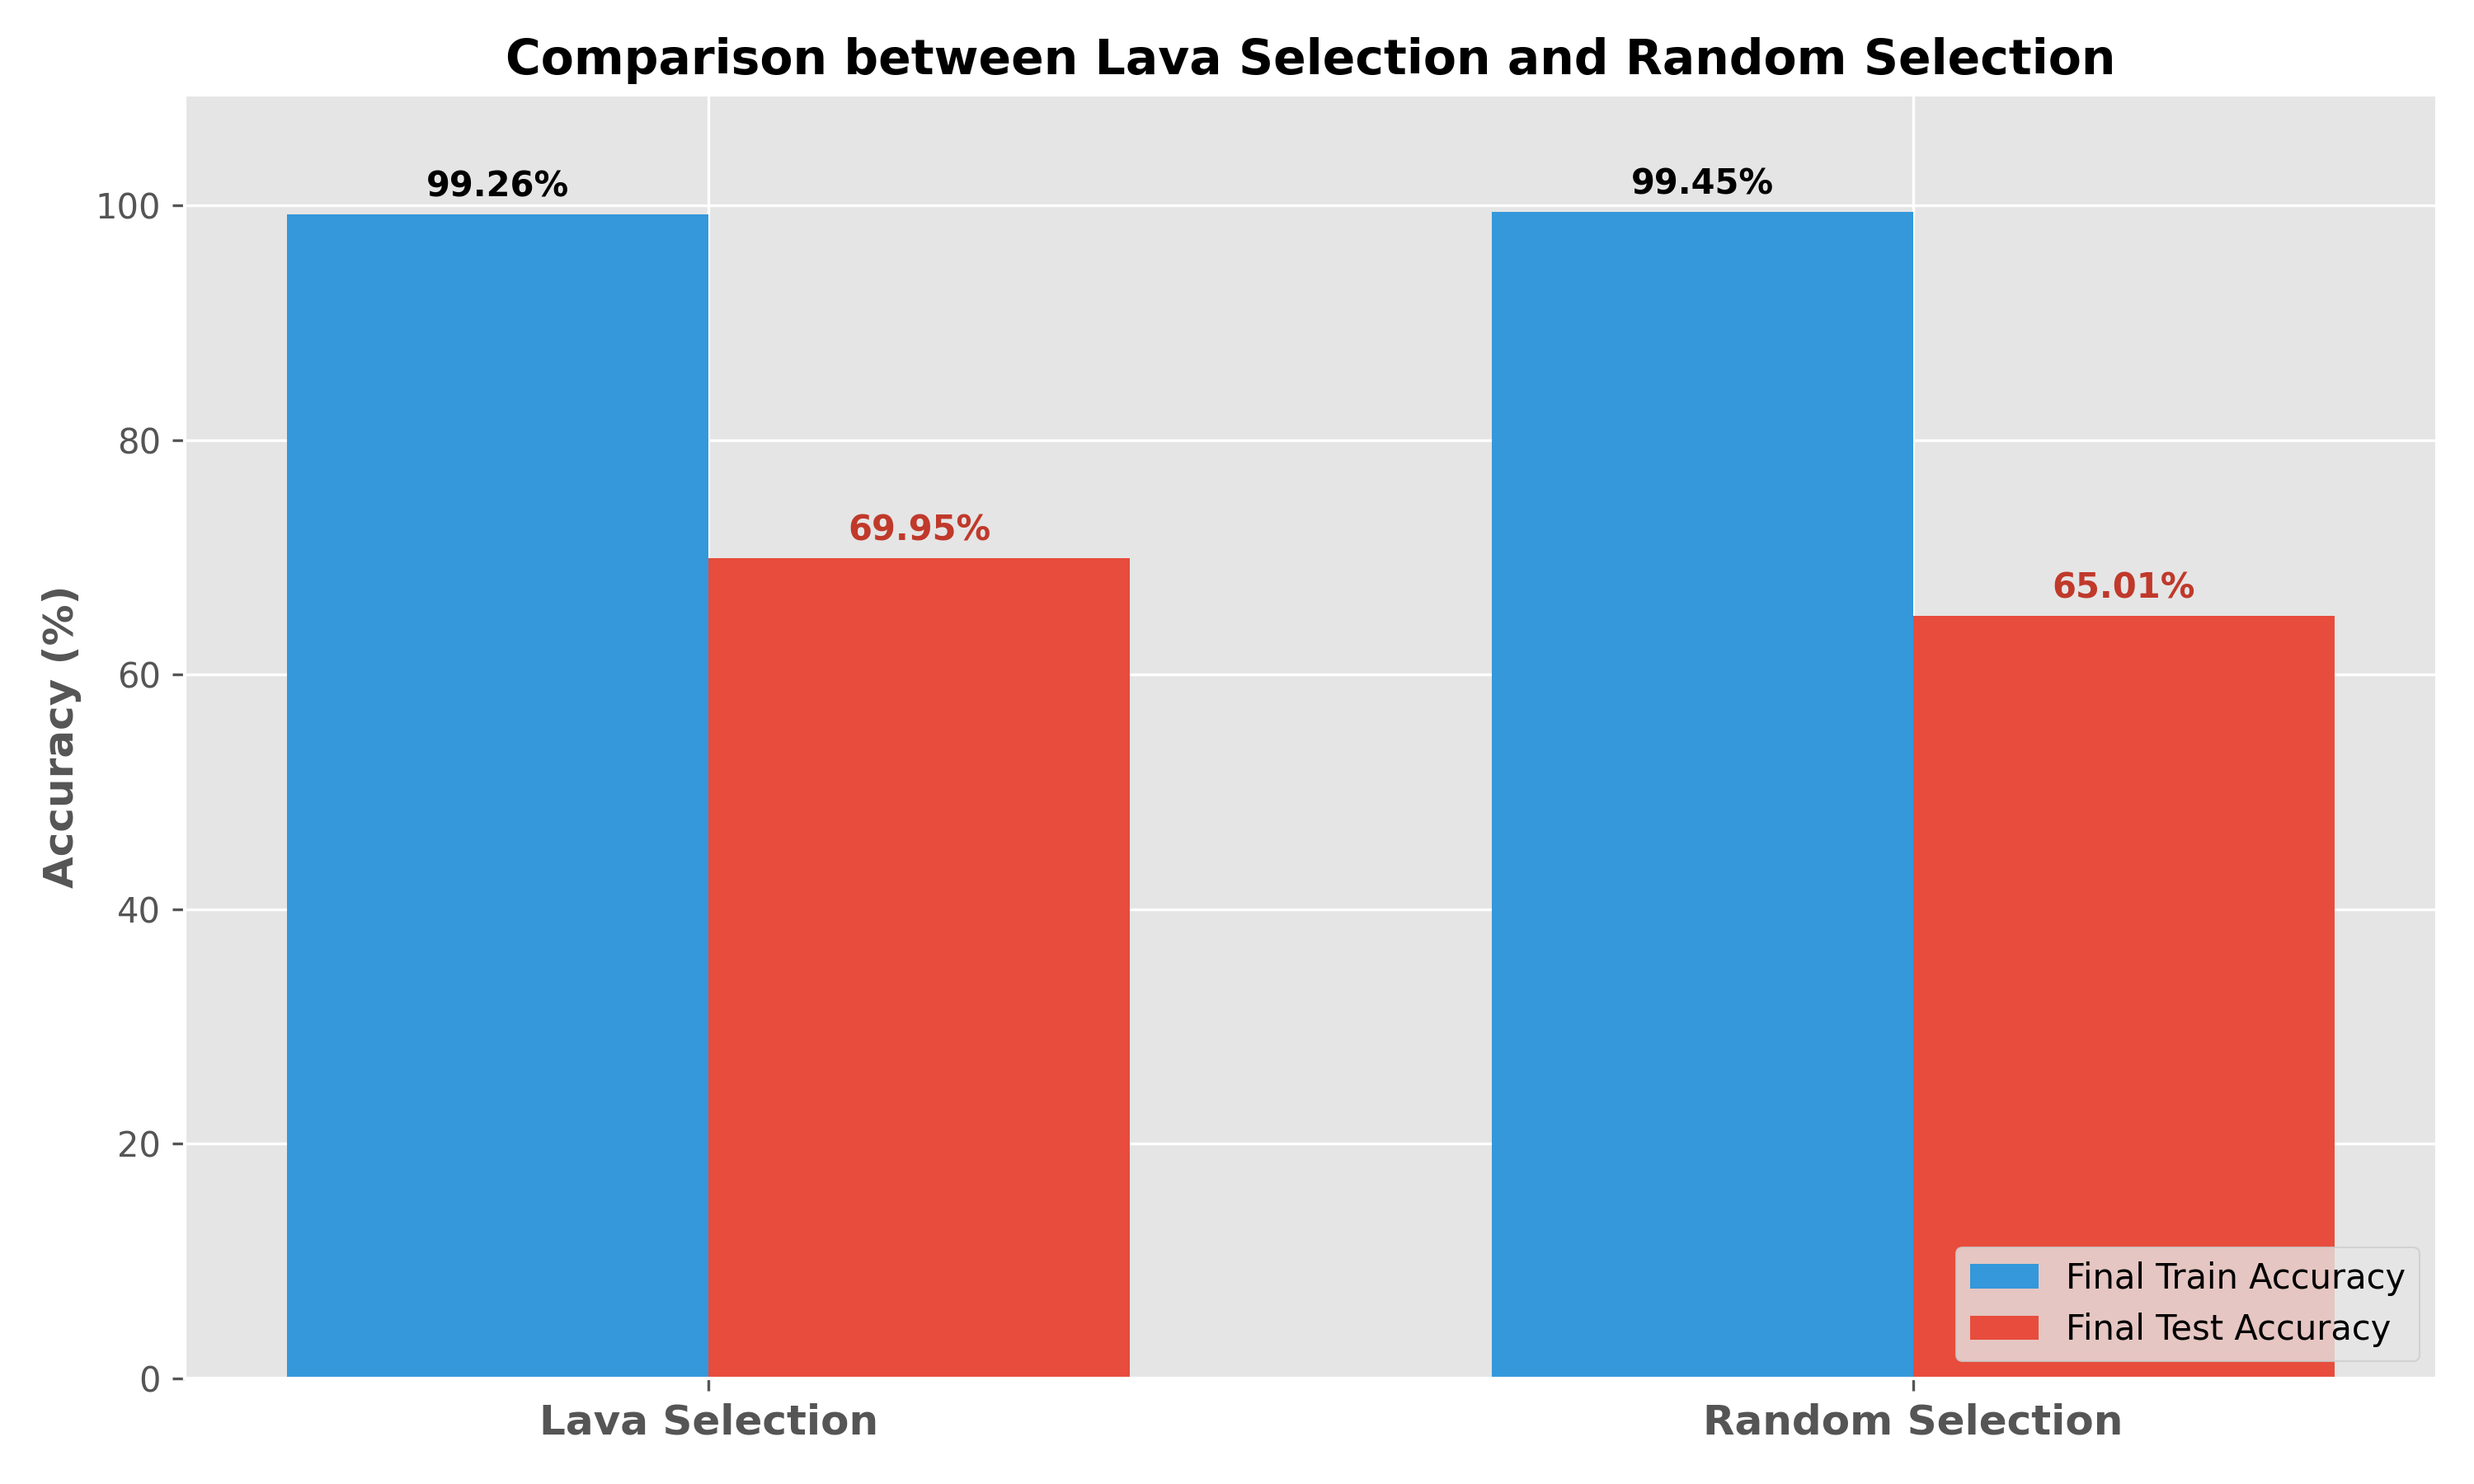
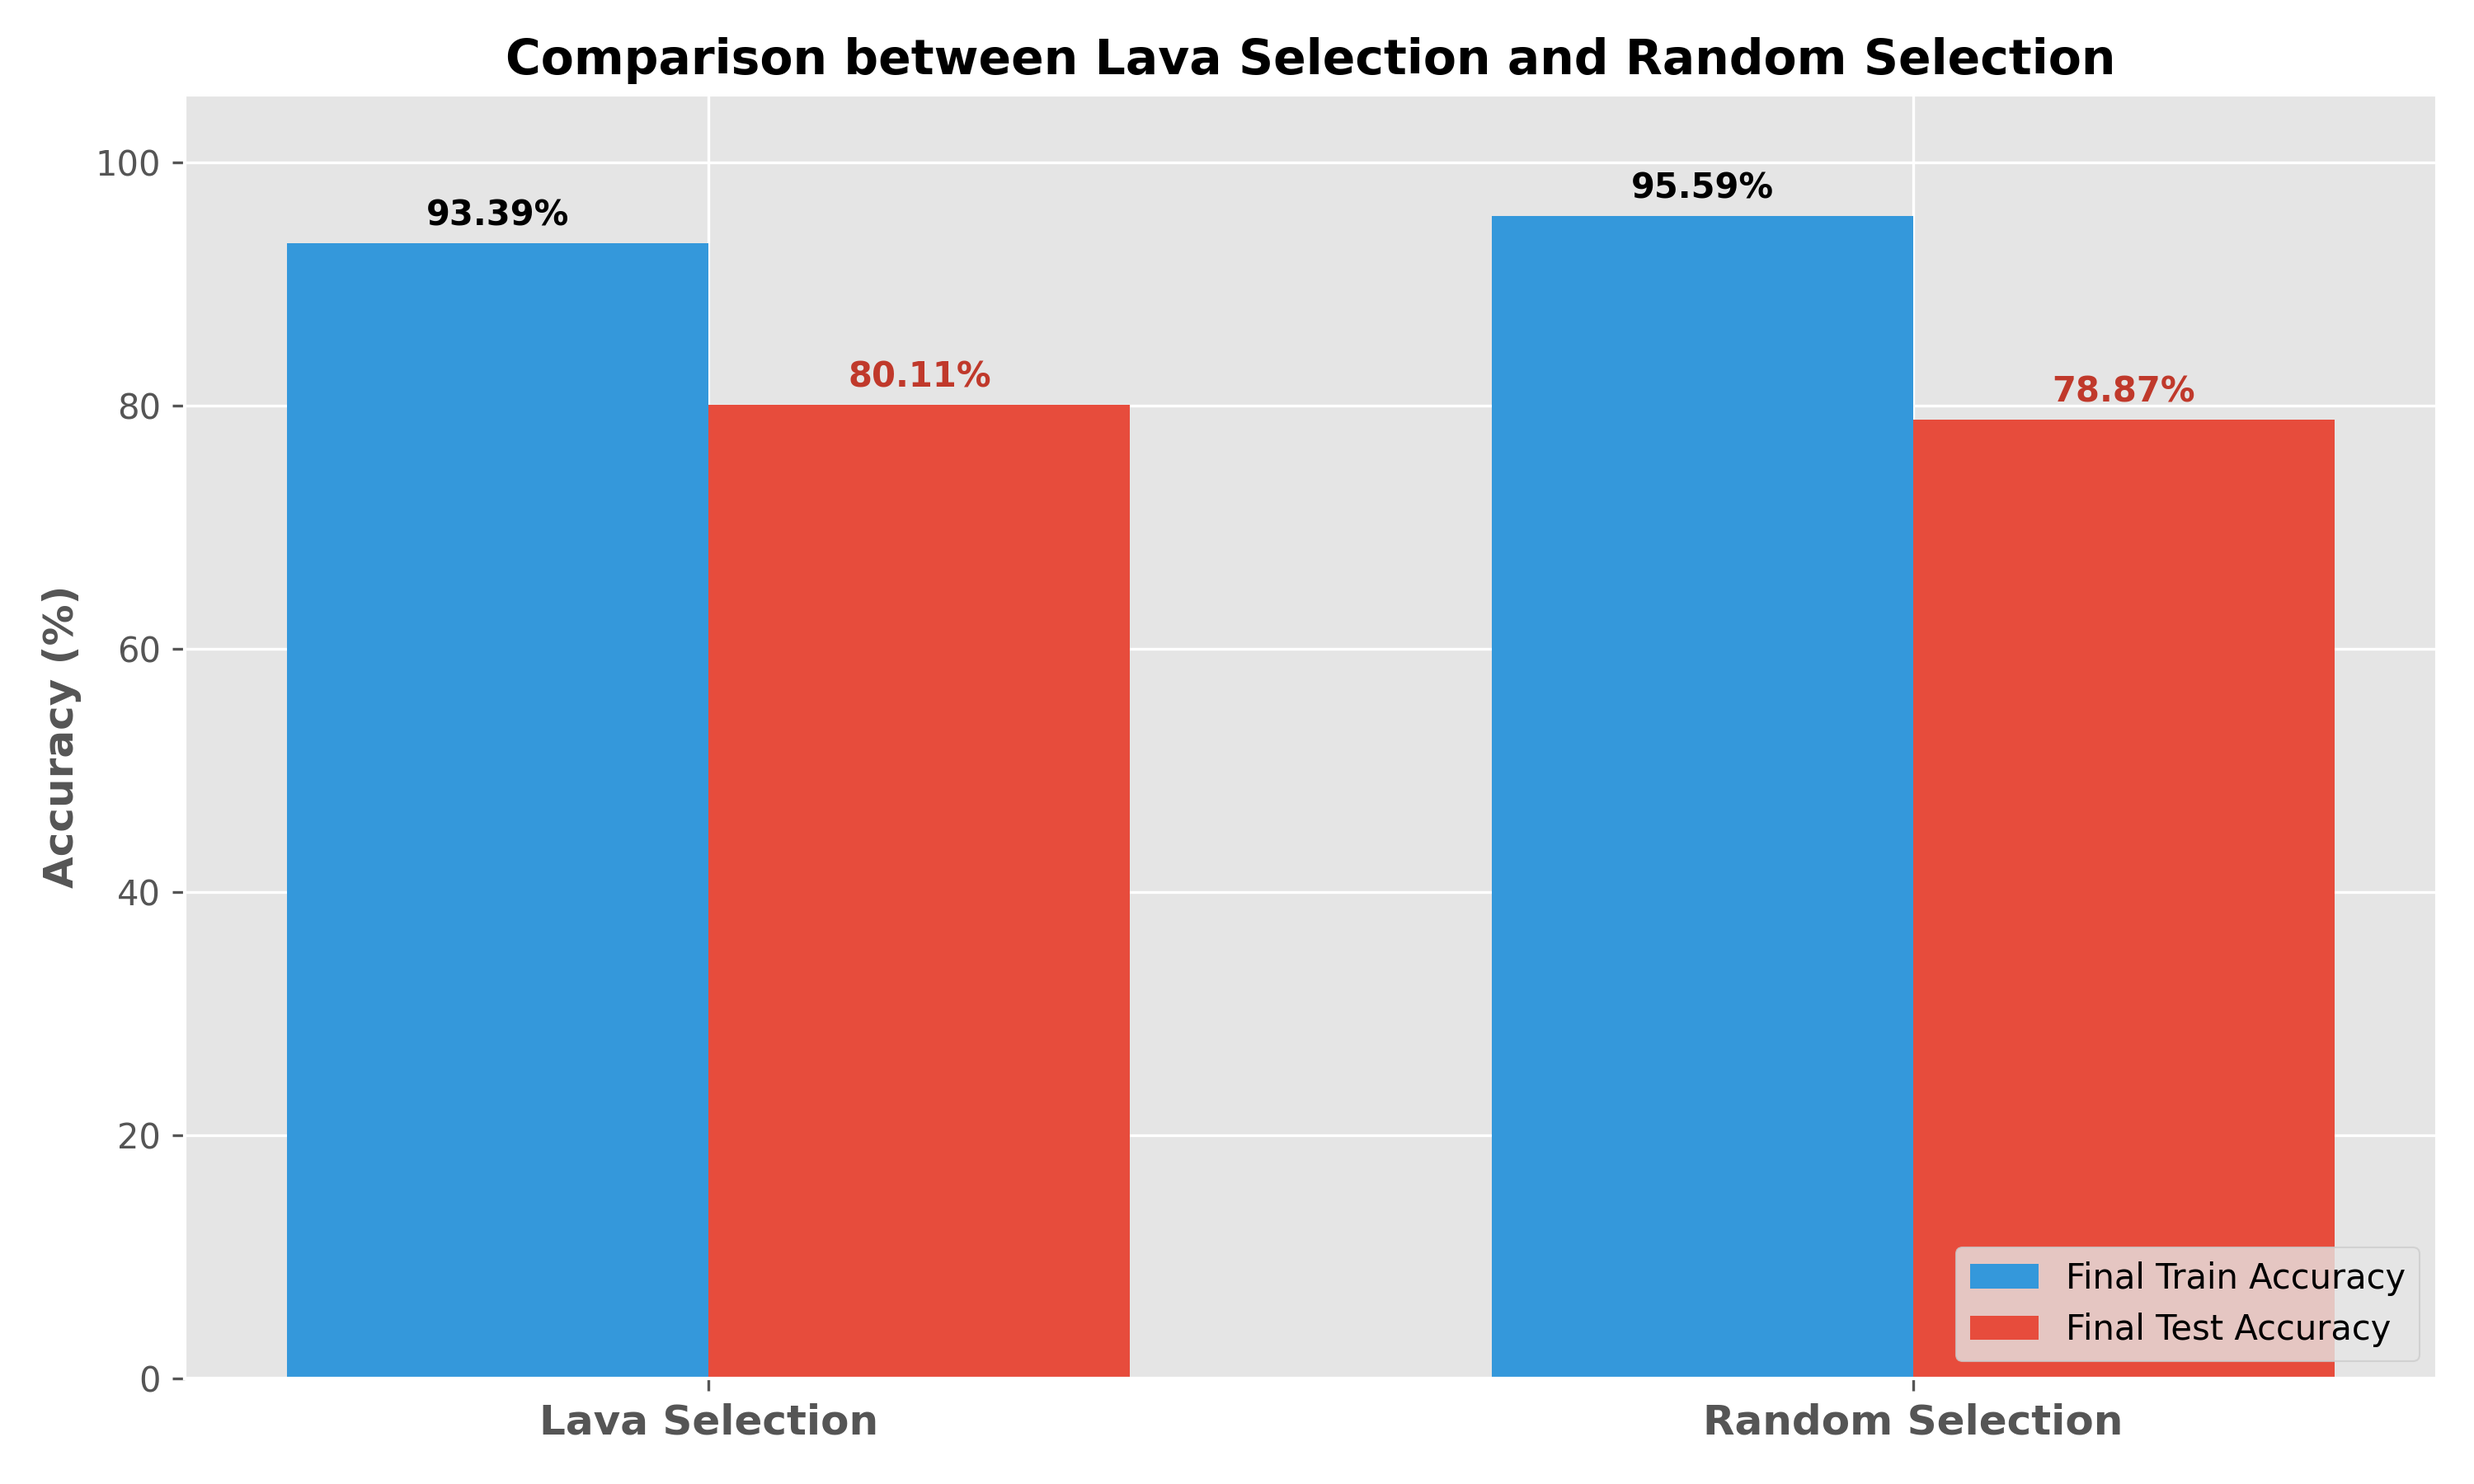
change epoch num

diff --git a/results/plot_compare_final_test_accuracy.py b/results/plot_compare_final_test_accuracy.py
@@ -78,7 +78,7 @@ def plot_final_comparison(lava_file, random_file, output_dir):
 
     # Formatting
     ax.set_ylabel('Accuracy (%)', fontweight='bold')
-    ax.set_title('Comparison between Lava Selection and Random Selection', fontsize=14, fontweight='bold')
+    ax.set_title('Comparison between Lava + Mixup_DRW and Random + MixupDRW', fontsize=14, fontweight='bold')
     ax.set_xticks(x)
     ax.set_xticklabels(labels, fontweight='bold', fontsize=12)
     
@@ -89,15 +89,15 @@ def plot_final_comparison(lava_file, random_file, output_dir):
     ax.legend(loc='lower right')
 
     plt.tight_layout()
-    save_path = os.path.join(output_dir, 'comparison_lava_vs_random_final.png')
+    save_path = os.path.join(output_dir, 'comparison_lava+Mixup_DRW_vs_random+Mixup_DRW.png')
     plt.savefig(save_path, dpi=300)
     print(f"🎉 Successfully saved bar chart to: {save_path}")
     plt.show()
 
 if __name__ == "__main__":
     # --- UPDATE THESE PATHS ---
-    file_lava = "train/cifar10_lava_0.7_exp_0.01_ERM_200_seed.log"
-    file_random = "train/cifar10_random_0.7_exp_0.01_ERM_200_seed.log"
+    file_lava = "train/cifar10_lava0.7_mixup_drw_exp0.01_seed42/cifar10_lava0.7_mixup_drw_exp0.01_seed42_20260403_134214.log"
+    file_random = "train/cifar10_random0.7_mixup_drw_exp0.01_seed42/cifar10_random0.7_mixup_drw_exp0.01_seed42_20260403_142354.log"
     results_output = "plot"
     
     plot_final_comparison(file_lava, file_random, results_output)
